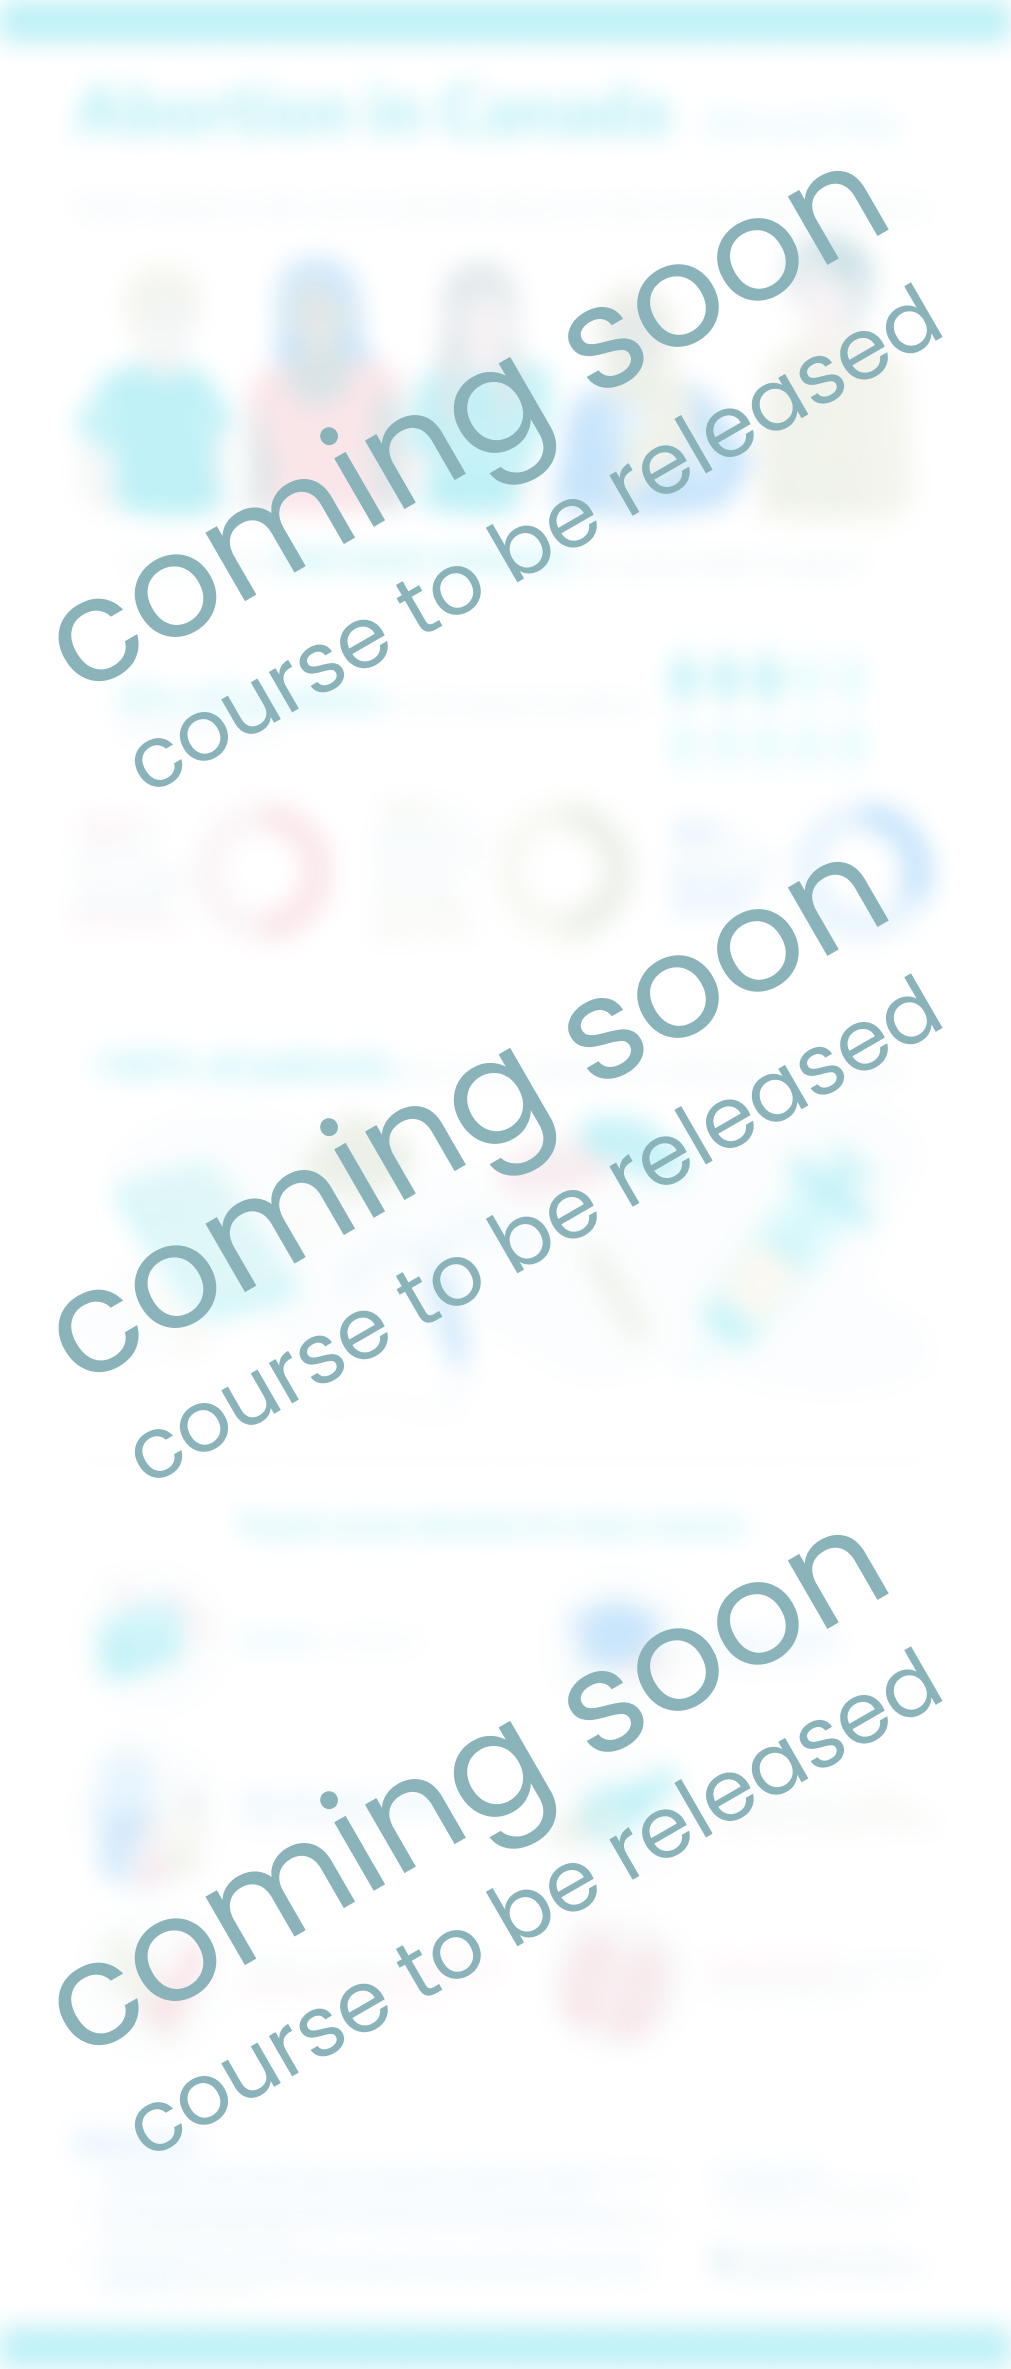
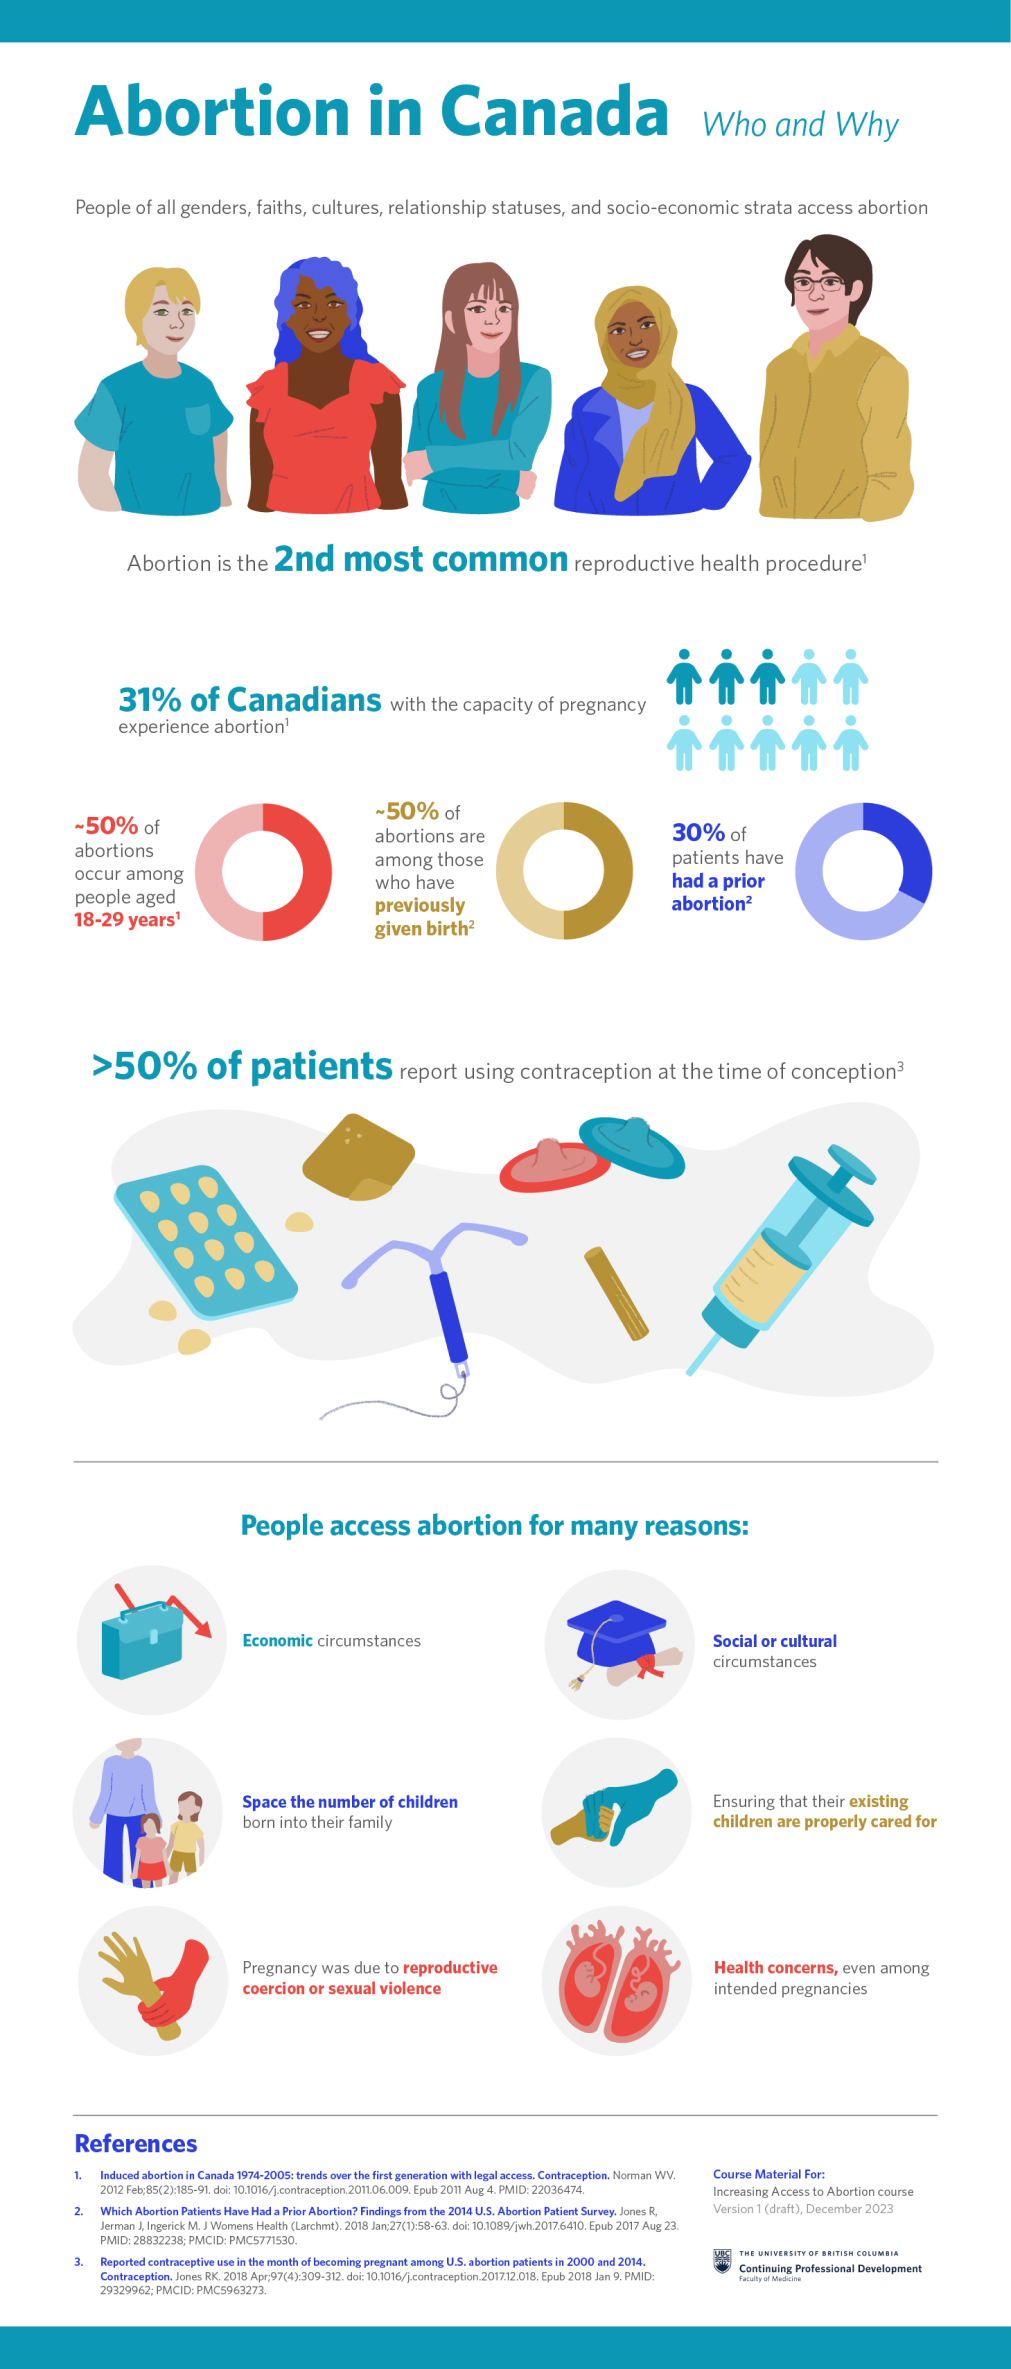
updated coming soon images and resume

diff --git a/ubccpd.html b/ubccpd.html
@@ -114,6 +114,7 @@
             </div>
             <div class="flexImage">
                 <img src="./images/ubccpd/mespPDF.jpg" alt="image coming soon" width="100%">
+                <figcaption>A collection of layouts I designed for the Midwifery Emergency Skills Program course book. ©UBC CPD.</figcaption>
             </div>
         </section>
        </div>
@@ -121,11 +122,12 @@
        <section class="flexImageSection">
         <div class="flexInfo">
             <h2>Abortion Access Infographic</h2>
-            <p>For a to-be-released course and national campaign about increasing abortion access, I developed and designed an infographic that details important statistics about abortions people may not know. </p>
-            <p>The aim for it is to help normalize abortion and inform people of their options in accessing abortion care. This will be a downloadable digital resource as well as a poster health-care providers can show to their patients.</p>
+            <p>For the online course: <em>We All Have a Role to Play: Increasing Access to Abortion Care in Canada</em>, which was a collaboration between UBC CPD, the Contraception and Abortion Research Team, and Health Canada. I developed and designed an infographic that details important statistics about abortions people may not know. </p>
+            <p>The aim for it was to help normalize abortion and inform people of their options in accessing abortion care. This is downloadable digital resource as well as a poster health-care providers can show to their patients.</p>
         </div>
         <div class="flexImage">
             <img src="./images/ubccpd/abortionInfographic.jpg" alt="image coming soon" width="100%">
+            <figcaption>Important statistics about abortion people may not know, to make prospective patients feel safe and informed. ©UBC CPD.</figcaption>
         </div>
        </section>
 

diff --git a/about.html b/about.html
@@ -35,7 +35,7 @@
                 <h1>Hi, I'm Taylor.</h1>
                 <p>I'm a designer and illustrator whose specialty is using bright colours and fantastical concepts to create fun design work. My works take inspiration from comics, games, folklore, and silly things I see online, because my favourite kind of art is the kind that makes people smile and laugh. I’m experienced in designing for web and print, using a variety of tools such as Figma, the Adobe Suite, Protopie, and Procreate.</p>
                 <p>&#128231; taliu@sfu.ca</p>
-                <a id="resumeButton" target="_blank" href="https://drive.google.com/file/d/1KUopcNPXHyE8t7QXt7mY6Sfv_DAIIBPF/view?usp=sharing" class="buttonMain">View my Resume</a>
+                <a id="resumeButton" target="_blank" href="https://drive.google.com/file/d/1PHBoZJ49Zo1Tf6bzrVbLQPV58qZmyVZZ/view?usp=sharing" class="buttonMain">View my Resume</a>
             </div>
             <div class= "flexImage">
                 <img src="./images/bioImage.png" width="100%" alt="a self portrait of sorts">
